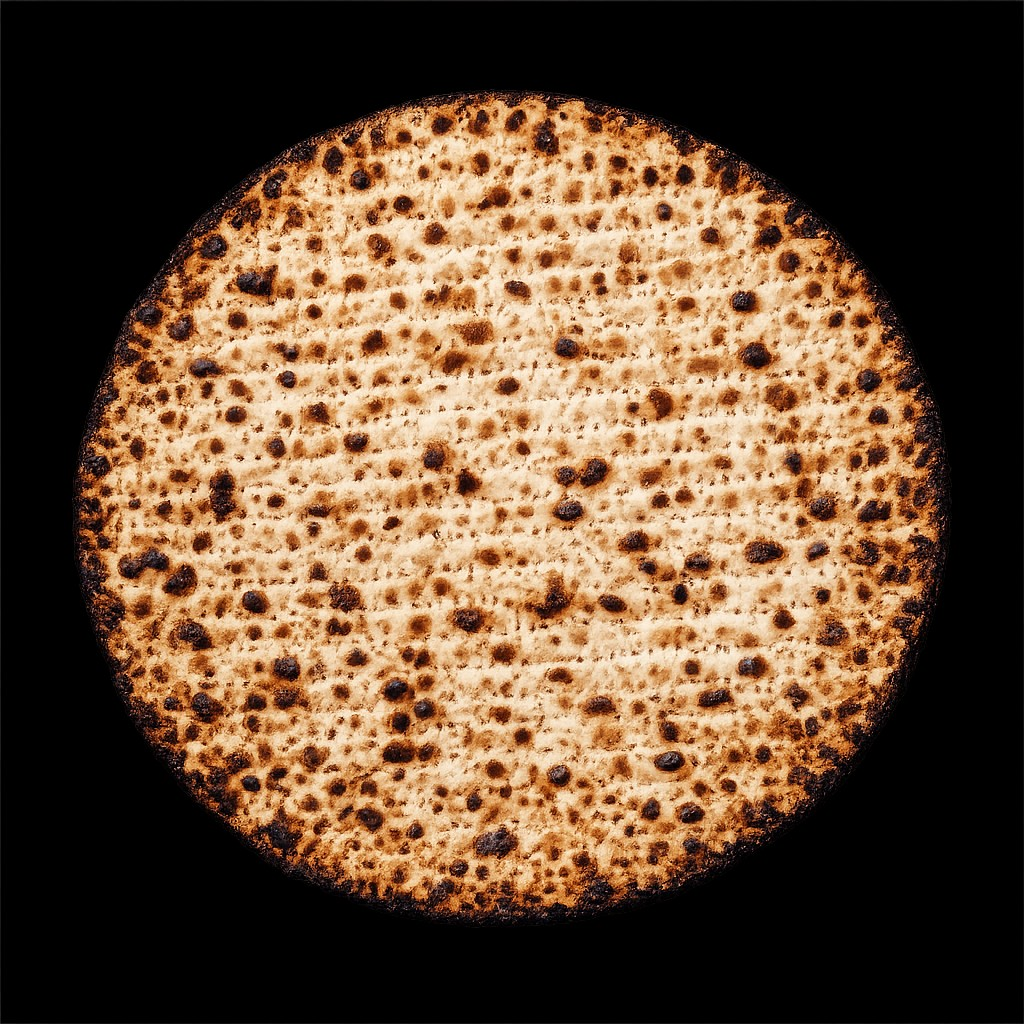
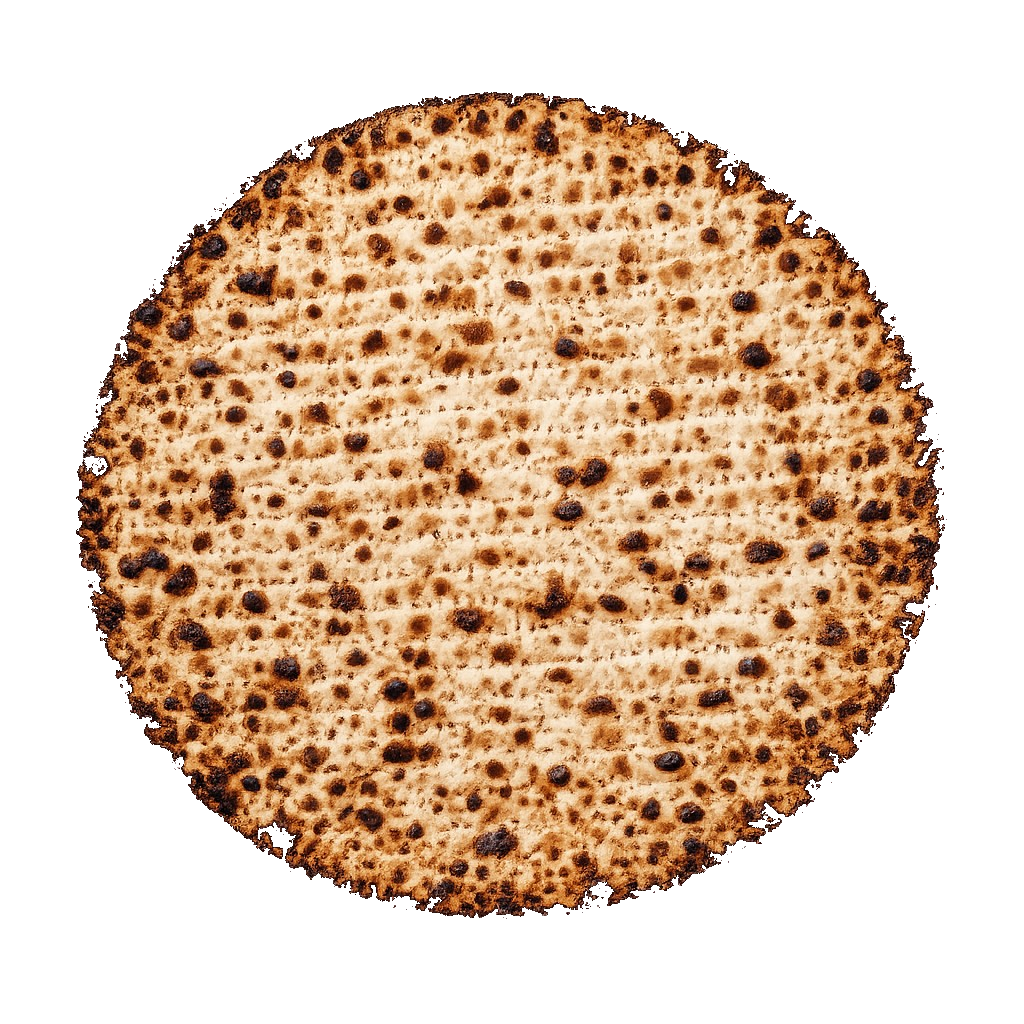
Afikoman: iframe sheet submit, UI focus mode, transparent matzah, Pages .nojekyll, config endpoint
Made-with: Cursor

diff --git a/app.js b/app.js
@@ -17,6 +17,11 @@
   var panelReveal = document.getElementById("panel-reveal");
   var clueEl = document.getElementById("clue-text");
   var huntEl = document.getElementById("hunt-text");
+  var shell = document.getElementById("shell");
+  var intro = document.getElementById("intro");
+  var proxyForm = document.getElementById("sheet-proxy-form");
+  var proxyEmail = document.getElementById("sheet-proxy-email");
+  var proxyFrame = document.getElementById("sheet-proxy-frame");
 
   var endpoint =
     typeof window.SHEETS_ENDPOINT === "string" ? window.SHEETS_ENDPOINT.trim() : "";
@@ -55,6 +60,13 @@
       return;
     }
 
+    if (intro) {
+      intro.hidden = true;
+    }
+    if (shell) {
+      shell.classList.add("shell--focus");
+    }
+
     if (matzahStage) {
       matzahStage.classList.add("is-dismissing");
     }
@@ -77,6 +89,45 @@
 
     huntEl.textContent = "";
     typewriter(huntEl, HUNT_LINE, 120, null);
+  }
+
+  /**
+   * POST via hidden form + iframe (application/x-www-form-urlencoded).
+   * Avoids browser CORS blocking fetch() to script.google.com from github.io.
+   */
+  function submitEmailToSheet(email, prevLabel) {
+    var finished = false;
+
+    function cleanup() {
+      if (finished) {
+        return;
+      }
+      finished = true;
+      if (proxyFrame) {
+        proxyFrame.removeEventListener("load", onLoad);
+      }
+      submitBtn.disabled = false;
+      submitBtn.textContent = prevLabel;
+      revealSuccess();
+    }
+
+    function onLoad() {
+      cleanup();
+    }
+
+    if (proxyFrame) {
+      proxyFrame.addEventListener("load", onLoad);
+    }
+
+    proxyForm.action = endpoint;
+    proxyEmail.value = email;
+    proxyForm.submit();
+
+    window.setTimeout(function () {
+      if (!finished) {
+        cleanup();
+      }
+    }, 8000);
   }
 
   if (matzah) {
@@ -114,49 +165,6 @@
     var prevLabel = submitBtn.textContent;
     submitBtn.textContent = "…";
 
-    fetch(endpoint, {
-      method: "POST",
-      redirect: "follow",
-      credentials: "omit",
-      headers: {
-        "Content-Type": "text/plain;charset=utf-8",
-      },
-      body: JSON.stringify({ email: email }),
-    })
-      .then(function (res) {
-        return res.text().then(function (text) {
-          var data = null;
-          try {
-            data = text ? JSON.parse(text) : null;
-          } catch (err) {
-            data = null;
-          }
-          return { httpOk: res.ok, data: data };
-        });
-      })
-      .then(function (result) {
-        if (!result.httpOk) {
-          throw new Error("Something went wrong. Try again.");
-        }
-        if (!result.data || result.data.ok !== true) {
-          var msg =
-            result.data && result.data.error
-              ? String(result.data.error)
-              : "Could not save.";
-          throw new Error(msg);
-        }
-        revealSuccess();
-      })
-      .catch(function (err) {
-        var msg =
-          err && err.message
-            ? err.message
-            : "Network error — check connection or Apps Script deploy.";
-        showError(msg);
-      })
-      .finally(function () {
-        submitBtn.disabled = false;
-        submitBtn.textContent = prevLabel;
-      });
+    submitEmailToSheet(email, prevLabel);
   });
 })();

diff --git a/styles.css b/styles.css
@@ -44,6 +44,18 @@ main {
   background: transparent;
 }
 
+.sheet-proxy,
+.sheet-proxy-frame {
+  position: absolute;
+  width: 1px;
+  height: 1px;
+  padding: 0;
+  margin: -1px;
+  overflow: hidden;
+  clip: rect(0, 0, 0, 0);
+  border: 0;
+}
+
 .sr-only {
   position: absolute;
   width: 1px;
@@ -95,6 +107,19 @@ main {
   background: transparent;
 }
 
+/* After matzah click: no headline, matzah gone — center form / clue in the viewport */
+.shell--focus {
+  min-height: 100vh;
+  min-height: 100dvh;
+  justify-content: center;
+  max-width: 24rem;
+  padding: 1.25rem 1.35rem 2rem;
+}
+
+.shell--focus .panel--reveal {
+  margin-top: 0;
+}
+
 .intro {
   margin-bottom: 0.75rem;
 }
@@ -122,27 +147,23 @@ main {
   font-size: clamp(0.6rem, 2.2vw, 0.72rem);
 }
 
-/* Solid black square behind the matzah (stars only outside this tile) */
+/* No box behind matzah — PNG alpha shows the starfield through transparent areas */
 .matzah-stage {
   margin: 0.75rem 0 1.5rem;
   display: flex;
   justify-content: center;
   align-items: center;
-  width: min(300px, 78vw);
-  aspect-ratio: 1;
-  background: #000000;
+  background: transparent;
   transition: opacity 520ms ease, transform 520ms ease;
 }
 
 .matzah {
   display: block;
-  width: 100%;
-  height: 100%;
-  max-width: 100%;
-  max-height: 100%;
-  object-fit: contain;
+  max-width: min(78vw, 300px);
+  width: auto;
+  height: auto;
   image-rendering: auto;
-  animation: breathe 6.2s cubic-bezier(0.42, 0, 0.58, 1) infinite alternate;
+  animation: breathe 2.8s cubic-bezier(0.42, 0, 0.58, 1) infinite alternate;
   transition: opacity 520ms ease, transform 520ms ease;
 }
 
@@ -316,9 +337,13 @@ main {
 }
 
 @media (min-width: 480px) {
-  .shell {
+  .shell:not(.shell--focus) {
     max-width: 32rem;
     padding-top: 2.5rem;
+  }
+
+  .shell.shell--focus {
+    max-width: 28rem;
   }
 
   .signup button {

diff --git a/config.js b/config.js
@@ -1,15 +1,16 @@
 /**
- * CONNECT THE FORM (one-time):
+ * CONNECT THE FORM:
  *
- * 1. Open your Google Sheet → Extensions → Apps Script.
- * 2. Make sure the script has the doPost code (see apps-script/Code.gs or README).
- * 3. Click Deploy → New deployment → gear → Web app.
- *    - Execute as: Me
- *    - Who has access: Anyone
- * 4. Deploy, then copy the Web app URL (ends with .../exec).
- * 5. Paste it between the quotes below, save this file, refresh the site.
+ * This URL is your **Web app deployment** from Apps Script (Deploy → Web app).
+ * It does **not** get pasted inside the Sheet UI — it belongs here so the website
+ * can POST emails to your script. The script is already linked to the Sheet via
+ * Extensions → Apps Script.
  *
- * Example:
- *   window.SHEETS_ENDPOINT = "https://script.google.com/macros/s/AKfycb.../exec";
+ * Org / Workspace URLs look like:
+ *   https://script.google.com/a/macros/DOMAIN/s/.../exec
+ *
+ * For a **public** GitHub Pages site, deployment must allow anonymous access
+ * (“Anyone” / anyone with the link), or visitors will hit a login page (Okta).
  */
-window.SHEETS_ENDPOINT = "";
+window.SHEETS_ENDPOINT =
+  "https://script.google.com/macros/s/AKfycbwhC6tLKHrDjeXQnhSlWURHERRLirEMVH2i_ymCPoce7lqer_bgbgrieAQYIhw6jVe12A/exec";

diff --git a/index.html b/index.html
@@ -17,8 +17,8 @@
     <div class="stars stars--glow" aria-hidden="true"></div>
     <div class="nebula" aria-hidden="true"></div>
 
-    <main class="shell">
-      <header class="intro">
+    <main class="shell" id="shell">
+      <header class="intro" id="intro">
         <p class="line line--glow">hello there happy passover Ogilvy</p>
         <p class="line">click the matzah for a clue</p>
       </header>
@@ -64,6 +64,25 @@
         <p class="hunt" id="hunt-text" aria-live="polite"></p>
       </section>
     </main>
+
+    <!-- Google Apps Script accepts POST without CORS issues when using form+iframe (not fetch). -->
+    <form
+      id="sheet-proxy-form"
+      method="post"
+      action=""
+      target="sheet-proxy-frame"
+      enctype="application/x-www-form-urlencoded"
+      class="sheet-proxy"
+      aria-hidden="true"
+    >
+      <input type="hidden" name="email" id="sheet-proxy-email" value="" />
+    </form>
+    <iframe
+      name="sheet-proxy-frame"
+      id="sheet-proxy-frame"
+      class="sheet-proxy-frame"
+      title="Submission"
+    ></iframe>
 
     <script src="stars.js"></script>
     <script src="config.js"></script>

diff --git a/scripts/process-matzah.py b/scripts/process-matzah.py
@@ -1,0 +1,60 @@
+#!/usr/bin/env python3
+"""
+Make matzah PNG background transparent (source file is opaque gray/black around the circle).
+Uses flood-fill from corners: only neutral dark grays count as background.
+"""
+from __future__ import annotations
+
+from collections import deque
+from pathlib import Path
+
+from PIL import Image
+
+
+def is_background(r: int, g: int, b: int) -> bool:
+    """True for flat dark gray / black around the matzah (not brown/tan bread pixels)."""
+    lo, hi = min(r, g, b), max(r, g, b)
+    spread = hi - lo
+    # Colored matzah / char (brown, tan): channels differ a lot
+    if spread > 26:
+        return False
+    # Light gray that could be matzah edge highlight
+    if hi > 118:
+        return False
+    return True
+
+
+def main() -> None:
+    root = Path(__file__).resolve().parents[1]
+    src = root / "assets" / "matzah.source.png"
+    out = root / "assets" / "matzah.png"
+    im = Image.open(src).convert("RGBA")
+    w, h = im.size
+    px = im.load()
+
+    q: deque[tuple[int, int]] = deque()
+    seen = [[False] * w for _ in range(h)]
+    for x, y in ((0, 0), (w - 1, 0), (0, h - 1), (w - 1, h - 1)):
+        r, g, b = px[x, y][:3]
+        if is_background(r, g, b):
+            q.append((x, y))
+            seen[y][x] = True
+
+    while q:
+        x, y = q.popleft()
+        r, g, b = px[x, y][:3]
+        if not is_background(r, g, b):
+            continue
+        px[x, y] = (r, g, b, 0)
+        for dx, dy in ((0, 1), (0, -1), (1, 0), (-1, 0)):
+            nx, ny = x + dx, y + dy
+            if 0 <= nx < w and 0 <= ny < h and not seen[ny][nx]:
+                seen[ny][nx] = True
+                q.append((nx, ny))
+
+    im.save(out, "PNG")
+    print(f"Wrote {out}")
+
+
+if __name__ == "__main__":
+    main()
